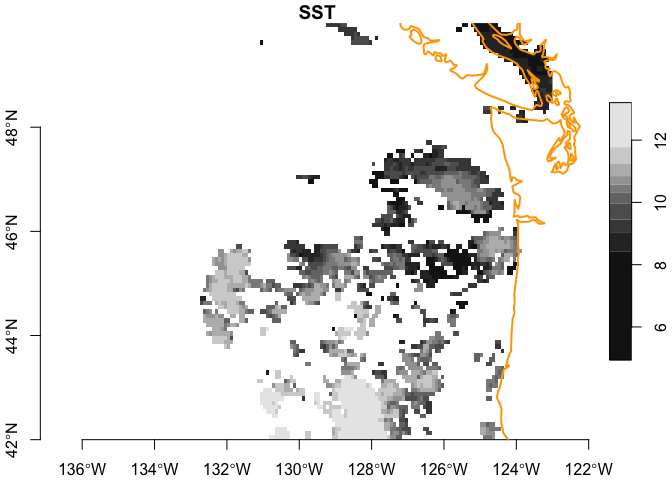
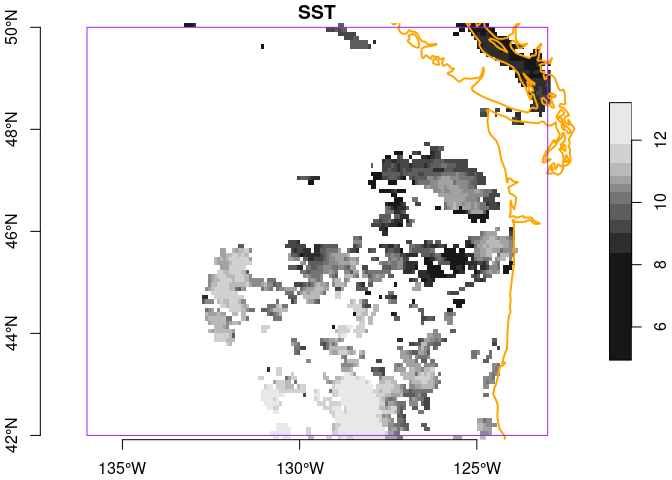
add crop with pad, update README

diff --git a/README.md b/README.md
@@ -25,7 +25,7 @@ Packages from CRAN:
 - [dplyr](https://CRAN.R-project.org/package=dplyr)
 - [sf](https://CRAN.R-project.org/package=sf)
 - [stars](https://CRAN.R-project.org/package=stars)
-- [tidync](https://CRAN.R-project.org/package=ncdf4)
+- [tidync](https://CRAN.R-project.org/package=tidync)
 
 ## Installation
 
@@ -127,7 +127,9 @@ db = attr(x, "db") |>
 Next we can crop to a subset of the resource by providing a bounding
 box. Cropping is non-destructive - you can always later crop the same
 object using a different bounding box. We provide an example bounding
-box for the Pacific Northwest.
+box for the Pacific Northwest. Note that cropping is a suggestion;
+actual cropping occurs at pixel boundaries which may or may not align
+with the requested bounding box.
 
 ``` r
 bb = pnw_bb()
@@ -136,7 +138,10 @@ x = crop_obpg(x, bb)
 
 # Extract as `stars`
 
-Finally, we can extract a `stars` array.
+Finally, we can extract a `stars` array. In the plot you can see the
+array with the coastline (orange) and requested bounding box (“purple”).
+Not that the array data extent is a bit larger than the requested
+bounding box - see the `pad` keyword of `crop_bb()` for details.
 
 ``` r
 coast = rnaturalearth::ne_coastline(scale = "medium", returnclass = "sf") |>
@@ -144,6 +149,7 @@ coast = rnaturalearth::ne_coastline(scale = "medium", returnclass = "sf") |>
 y = as_stars(x)
 plot(y, axes = TRUE, main = db$suite, reset = FALSE)
 plot(coast, col = "orange", lwd = 2, add = TRUE)
+plot(bb, border = "purple", add = TRUE)
 ```
 
 ![](README_files/figure-gfm/stars-1.png)<!-- -->
@@ -290,13 +296,13 @@ x
 
     ## stars object with 3 dimensions and 2 attributes
     ## attribute(s):
-    ##                Min.  1st Qu.    Median      Mean    3rd Qu.      Max.   NA's
-    ## chlor_a  0.05804371 0.203919 0.2365431 0.6747229  0.2697187  5.460822 104533
-    ## sst      2.47499990 8.335000 9.2699995 9.1582758 10.0850000 13.804999  78831
+    ##                Min.   1st Qu.    Median      Mean    3rd Qu.      Max.   NA's
+    ## chlor_a  0.05804371 0.2045063 0.2379057 0.6365259  0.2665869  5.460822 108060
+    ## sst      2.47499990 8.3249998 9.2649994 9.1611317 10.0900002 13.804999  81777
     ## dimension(s):
     ##      from  to     offset    delta refsys point x/y
-    ## x       1 156       -136  0.08333 WGS 84 FALSE [x]
-    ## y       1  96         50 -0.08333 WGS 84 FALSE [y]
+    ## x       1 158     -136.1  0.08333 WGS 84 FALSE [x]
+    ## y       1  98      50.08 -0.08333 WGS 84 FALSE [y]
     ## time    1   7 2025-01-01   1 days   Date    NA
 
 Note that two variables are present, `sst` and `chlor_a`. This only
